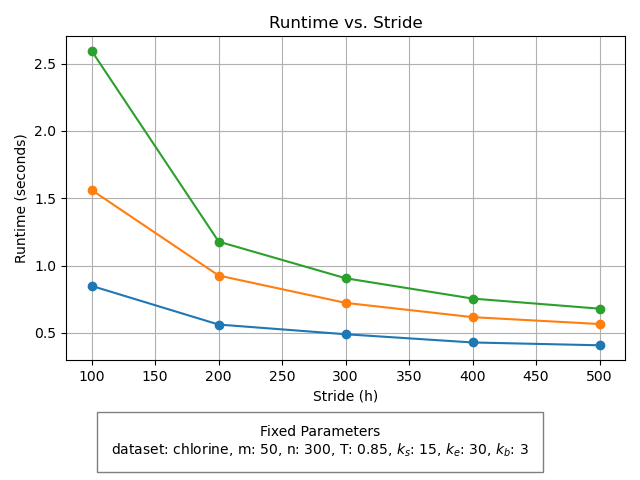
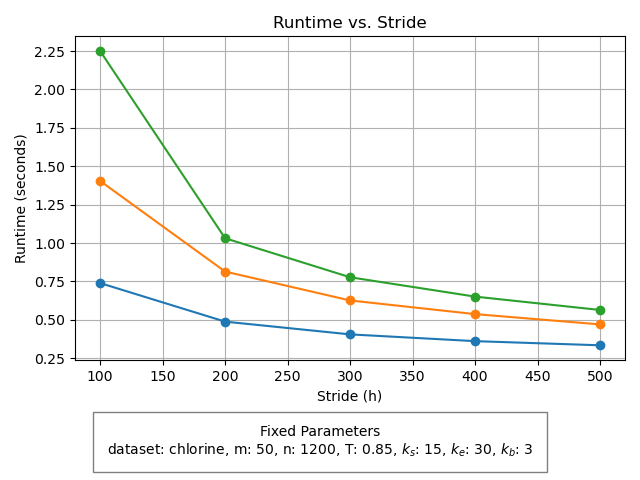
fix: ensure n < h always holds

diff --git a/code/brute_force_implementation/util.py b/code/brute_force_implementation/util.py
@@ -18,7 +18,7 @@ def get_params(params_name: str):
 
   Returns:
   tuple: Paramters for running correlation join.
-    - n (int): Window size
+    - n (int): Window size, n >= h should always hold
     - h (int): Stride, ideally a divisor of n
     - T (float): Correlation threshold
     - k_s (int): Number of dimensions for SVD
@@ -45,13 +45,13 @@ def get_params(params_name: str):
     "chlorine_1_run_1": (510, 30, 0.9, 15, 30, 2),
     "chlorine_1_run_2": (990, 30, 0.9, 15, 30, 2),
     "chlorine_1_run_3": (1500, 30, 0.9, 15, 30, 2),
-    # Params for runtime vs. h plots
-    "chlorine_var_h_plot": (300, -1, 0.85, 15, 30, 3),
-    "chlorine_var_h_run_0": (300, 100, 0.85, 15, 30, 3),
-    "chlorine_var_h_run_1": (300, 200, 0.85, 15, 30, 3),
-    "chlorine_var_h_run_2": (300, 300, 0.85, 15, 30, 3),
-    "chlorine_var_h_run_3": (300, 400, 0.85, 15, 30, 3),
-    "chlorine_var_h_run_4": (300, 500, 0.85, 15, 30, 3)
+    # New params for runtime vs. h plots
+    "chlorine_var_h_plot": (1200, -1, 0.85, 15, 30, 3),
+    "chlorine_var_h_run_0": (1200, 100, 0.85, 15, 30, 3),
+    "chlorine_var_h_run_1": (1200, 200, 0.85, 15, 30, 3),
+    "chlorine_var_h_run_2": (1200, 300, 0.85, 15, 30, 3),
+    "chlorine_var_h_run_3": (1200, 400, 0.85, 15, 30, 3),
+    "chlorine_var_h_run_4": (1200, 500, 0.85, 15, 30, 3)
   }
   return parameters[params_name]
 
